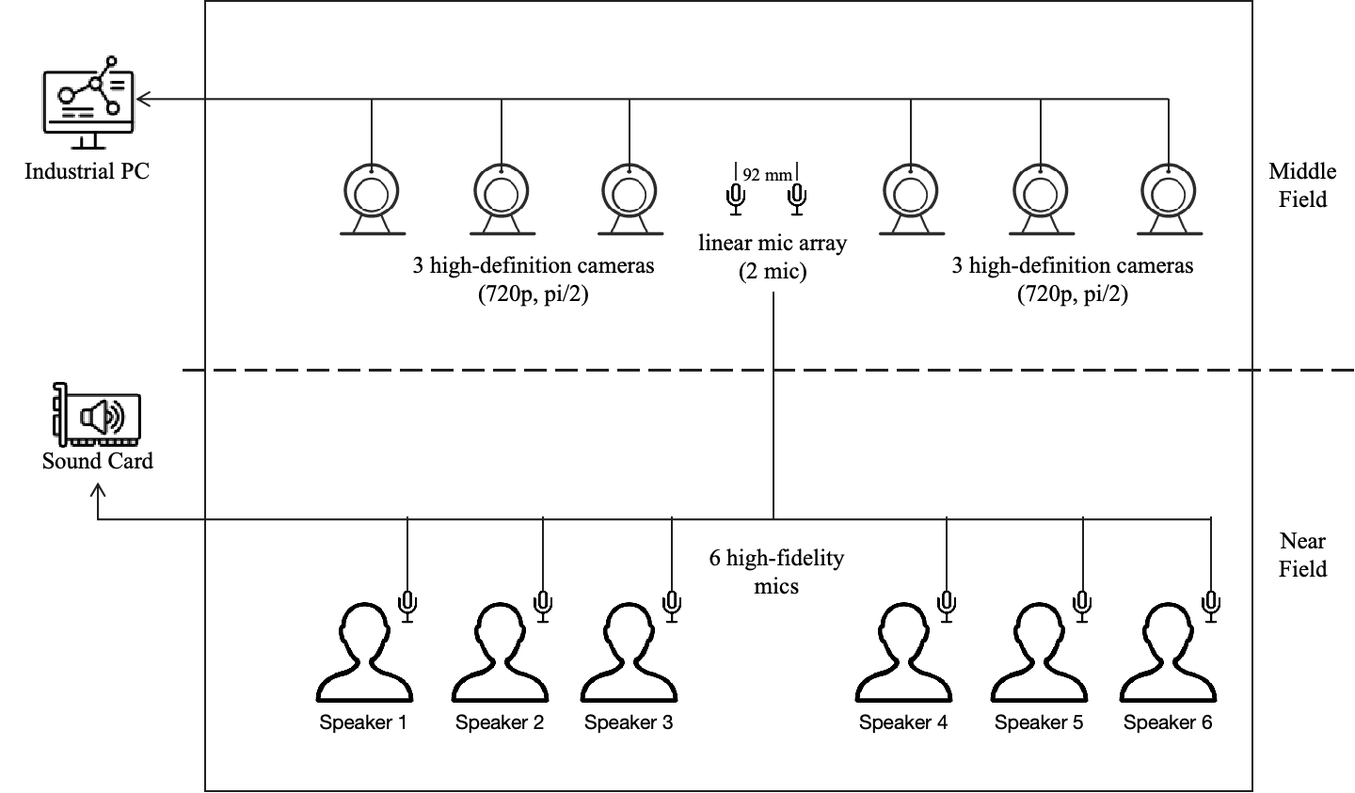
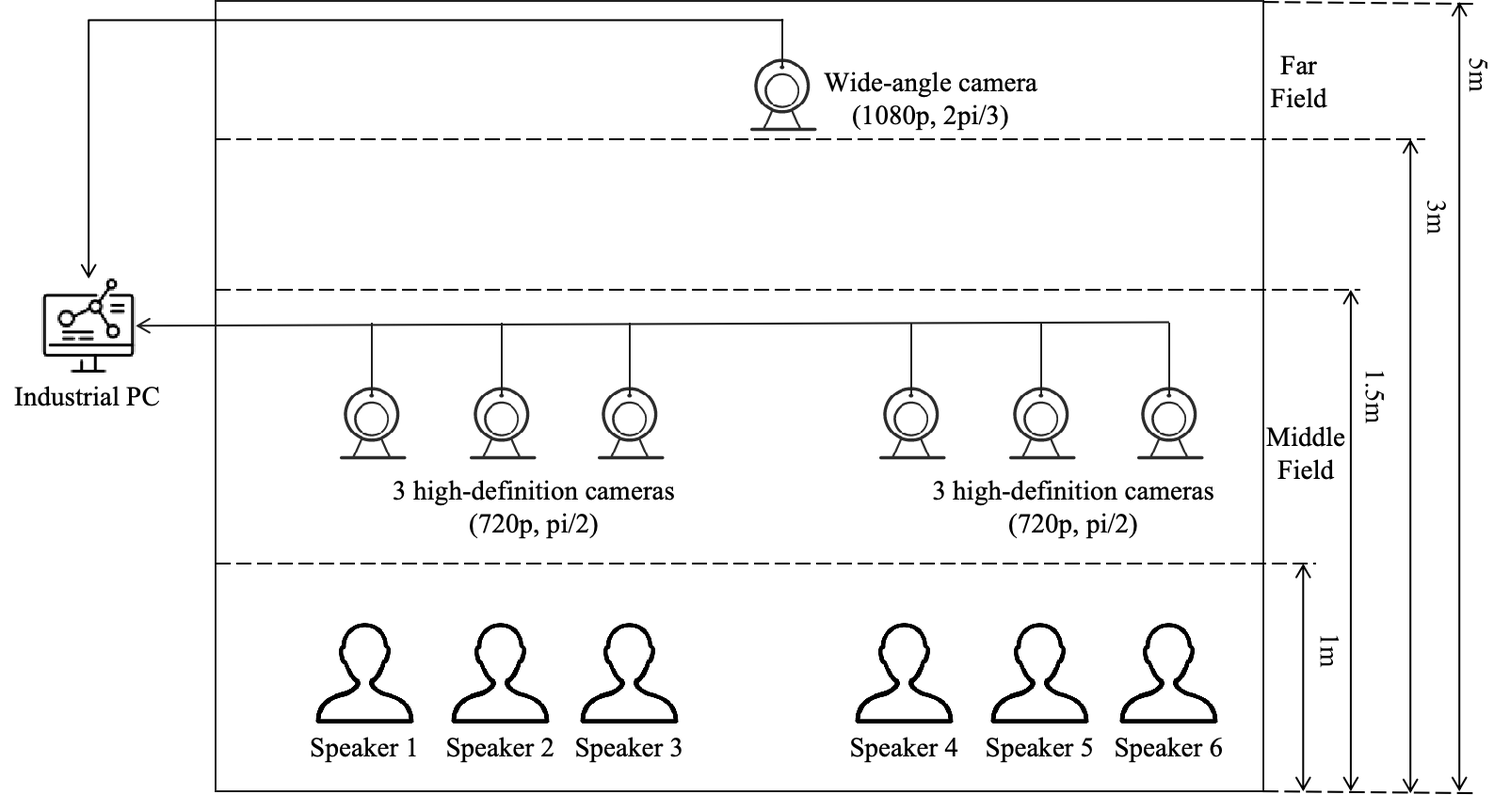
u

diff --git a/data.html b/data.html
@@ -21,7 +21,7 @@
 					<!-- <img src="images/isca.png" width="6%" height="6%" style="margin:0 77% 0 0;"> -->
 					<!-- <h1 style="font-size: 120%;  margin: -4% 0 -2% 0"><a href="index.html" id="logo">Multimodal Information
 							Based Speech Processing (MISP) Challenge 2023</a></h1> -->
-					<h1 style="font-size: 120%;  margin: -1% 0% -1% 0%;"><a href="index.html" id="logo">Home Scenario Chinese Lipreading Challenge</a></h1> 	
+					<h1 style="font-size: 120%;  margin: -1% 0% -1% 0%;"><a href="index.html" id="logo">Chat-scenario Chinese Lipreading (ChatCLR) Challenge</a></h1> 	
 					<!-- <img src="images/ieee.svg" width="7%"height="7%" style="margin:-10% 0% 3% 79%;"> -->
 
 					<!-- Nav -->
@@ -52,9 +52,9 @@
 				<section class="wrapper style1">
 					<div class="container">
 								
-						<h1 style="font-size: 150%;">Task 1: Lipreading Based Wake Word Spotting</h1>
+						<h1 style="font-size: 150%;">Task 1: Wake Word Lipreading</h1>
 						
-						<p>We use the middle field audio-visual wake word spotting dataset released in MISP 2021 Task 1, which is collected in home TV scenarios. The wake-up word is “Xiao T Xiao T”. There are 338 speakers. The dataset’s accent is Mandarin and all data were collected in 33 real rooms. A sample will be taken as a positive sample if the wake-up word is included, otherwise it will be regarded as a negative sample. For each sample, at most one wake-up word is included. The statistics of the dataset are shown in Table 1.</p>
+						<p>We use the far-field videos released in the MISP 2021 Task 1, collected in home TV scenarios. The wake-up word is “Xiao T Xiao T”. There are 338 speakers. The dataset’s accent is Mandarin; all data were collected in 33 real rooms. A sample will be taken as a positive sample if the wake-up word is included, otherwise, it will be regarded as a negative sample. For each sample, at most one wake-up word is included. The statistics of the dataset are shown in Table 1.</p>
 		
 						<style>
 							table {
@@ -69,7 +69,7 @@
 						  </style>
 						  
 						  <table>
-							<caption>Tabel 1: Task 1 Dataset</caption>
+							<caption>Table 1: Task 1 Dataset</caption>
 							<tr>
 							  <th rowspan="2">Dataset</th>
 							  <th colspan="2">Train</th>
@@ -89,52 +89,53 @@
 							</tr>
 							<tr>
 							  <td>Duration (h)</td>
-							  <td>6.21</td>
-							  <td>93.79</td>
-							  <td>0.78</td>
-							  <td>1.11</td>
-							  <td>0.81</td>
-							  <td>1.80</td>
-							  <td>7.80</td>
-							  <td>96.70</td>
+							  <td>3.87</td>
+							  <td>75.24</td>
+							  <td>0.69</td>
+							  <td>3.3</td>
+							  <td>2.43</td>
+							  <td>11.37</td>
+							  <td>6.9</td>
+							  <td>89.91</td>
 							</tr>
 							<tr>
 							  <td>Session</td>
-							  <td colspan="2">88</td>
-							  <td colspan="2">10</td>
-							  <td colspan="2">13</td>
-							  <td colspan="2">111</td>
+							  <td colspan="2">107</td>
+							  <td colspan="2">8</td>
+							  <td colspan="2">33</td>
+							  <td colspan="2">148</td>
 							</tr>
 							<tr>
 							  <td>Room</td>
-							  <td colspan="2">22</td>
+							  <td colspan="2">25</td>
 							  <td colspan="2">5</td>
-							  <td colspan="2">6</td>
-							  <td colspan="2">33</td>
+							  <td colspan="2">8</td>
+							  <td colspan="2">38</td>
 							</tr>
 							<tr>
 							  <td>Participant</td>
-							  <td colspan="2">257</td>
-							  <td colspan="2">35</td>
-							  <td colspan="2">46</td>
-							  <td colspan="2">338</td>
+							  <td colspan="2">253</td>
+							  <td colspan="2">28</td>
+							  <td colspan="2">47</td>
+							  <td colspan="2">328</td>
 							</tr>
 							<tr>
 							  <td>Male</td>
 							  <td colspan="2">79</td>
-							  <td colspan="2">11</td>
+							  <td colspan="2">9</td>
 							  <td colspan="2">27</td>
-							  <td colspan="2">117</td>
+							  <td colspan="2">115</td>
 							</tr>
 							<tr>
 							  <td>Female</td>
-							  <td colspan="2">178</td>
-							  <td colspan="2">24</td>
+							  <td colspan="2">174</td>
 							  <td colspan="2">19</td>
-							  <td colspan="2">221</td>
+							  <td colspan="2">20</td>
+							  <td colspan="2">213</td>
 							</tr>
 						  </table>
-					<p>On one side, our wake word spotting dataset encompasses over 30 rooms and 300 speakers, showcasing diverse rooms and different speakers, thus enhancing the complexity and diversity of our dataset. On the other side, this dataset includes words that share similar lip shapes with the wake-up words, amplifying the difficulty.</p>
+						  
+					<p>On one side, our wake word spotting dataset encompasses over 30 rooms and 300 speakers, showcasing diverse rooms and different speakers, thus enhancing the complexity and diversity of our dataset. Conversely, this dataset includes words that share similar lip shapes with the wake-up words, amplifying the difficulty.</p>
 
 					</div>
 				</section> 
@@ -142,9 +143,9 @@
 			<section class="wrapper style2">
 					<div class="container">
 								
-						<h1 style="font-size: 150%;">Task 2: Continuous Target Speaker Lipreading</h1>
+						<h1 style="font-size: 150%;">Task 2: Target Speaker Lipreading</h1>
 						
-						<p>The challenge uses the train and development set of MISP2021 AVSR dataset which contains 101.12 hours of audio-visual data. The development and evaluation sets originate from remaing data of MISP challenge, contaning 6 males and 6 females, whose videos are also included in the training set. Each speaker possesses approximately 30 minutes of data. Two-thirds of each person's data make up the devlopment set, while the remaining data make up the evaluation set. The statistics of the dataset are shown in Table 2.</p>			
+						<p>We utilize the far-field videos from the training and development sets of MISP2021 AVSR dataset to construct the training set for Task 2. The development and evaluation sets contain 6 males and 6 females, whose videos are also included in the training set. Each speaker possesses approximately 30 minutes of data. Two-thirds of each person's data make up the development set, while the remaining data make up the evaluation set. The statistics of the dataset are shown in Table 2.</p>			
 
 						<style>
 							table {
@@ -159,7 +160,7 @@
 						  </style>
 						  
 						  <table>
-							<caption>Tabel 2: Task 2 Dataset</caption>
+							<caption>Table 2: Task 2 Dataset</caption>
 							<tr>
 							  <th>Dataset</th>
 							  <th>Train</th>
@@ -171,15 +172,15 @@
 							  <td>Duration (h)</td>
 							  <td>110.95</td>
 							  <td>4.16</td>
-							  <td>2.27</td>
-							  <td>107.55</td>
+							  <td>2.48</td>
+							  <td>117.59</td>
 							</tr>
 							<tr>
 							  <td>Session</td>
 							  <td>339</td>
-							  <td>26</td>
-							  <td>16</td>
-							  <td>346</td>
+							  <td>12</td>
+							  <td>6</td>
+							  <td>357</td>
 							</tr>
 							<tr>
 							  <td>Participant</td>
@@ -203,7 +204,8 @@
 							  <td>133</td>
 							</tr>
 						  </table>
-				<p>To cover the real scene comprehensively and evenly, we designed the following recording configuration by controlling variables as in Table 3. "Time" refers to the recording time, the value is day or night. "Content" refers to the speaking content. We also recorded some data only containing wake-up/similar words to support audio-visual wake word spotting task. "Light" refers to turning on/off the light. "TV" refers to turning on/off the TV. "Group" refers to how many groups of participants are in a conversation. </p>
+						  
+				<p>To cover the real scene comprehensively and evenly, we designed the following recording configuration by controlling variables as in Table 3. ‘Time’ refers to the recording time, the value is day or night. ‘Content’ refers to the speaking content. We also recorded some data only containing wake-up/similar words to support the audio-visual wake-word spotting task. ‘Light’ refers to turning on/off the light. ‘TV’ refers to turning on/off the TV. ‘Group’ refers to how many groups of participants are in a conversation. </p>
 				
 				<style>
 					table {
@@ -305,7 +307,7 @@
 				  </table>
 				
 				  <p>
-					By observing the real conversations that were taking place in the real living room, we found that the participants would be divided into several groups to discuss different topics. Compared with all participants discussing the same topic, grouping would result in higher overlap ratios. We found that the average speech overlap ratios of Group = 1 and Group = 2 are 10%~20% and 50%~70%, respectively. The number of groups greater than 3 is very rare when the number of participants is no more than 6. 
+					By observing the real conversations that were taking place in the real living room, we found that the participants would be divided into several groups to discuss different topics. Compared with all participants discussing the same topic, grouping would result in higher overlap ratios. We found that the average speech overlap ratios of Group = 1 and Group = 2 are 10% ~ 20% and 50% ~ 70%, respectively. The number of groups greater than 3 is very rare when the number of participants is no more than 6. 
 				  </p>
 
 				  
@@ -316,9 +318,22 @@
 			<section class="wrapper style1">
 				<div class="container">
 					<h1 style="font-size: 150%;">Scenario and Recording Setup</h1>
-					<p>Figure 2 is a schematic diagram, showing the recording scene with six participants. In the near field, Each person has a personal microphone for high-fidelity audio recording. In the mid-field, a matching number of high-fidelity cameras capture individual videos of speakers, and two microphones are used to collect all speakers’ audio with background noise and overlap speech. </p>
-
+					<p>Figure 2 is a schematic diagram, showing the recording scene with six participants. According to the distance between the device and the speaker, multiple recording devices were divided into 2 categories:</p>
+					<ul>
+						<li>Far devices: A wide-angle camera (1080p, 25 fps, 2pi/3), which is placed 3-5m away from the speaker. All participants appear in the camera, which brings speakers position information while reducing the resolution of the lip region of interest (ROI);</li>
+						<li>
+							Middle devices: $n$ high-definition cameras (720p, 25fps, pi/2), placed 0.8-1.5m away from the speaker, where n is the number of participants within this conversation. There is only the corresponding speaker in each camera, and the lip ROI is recorded clearly;
+						</li>
+					</ul>
 					
+					<p>
+						Various devices have resulted in inconsistent clocks. We address that from two aspects: synchronization devices, and manual post-processing.
+					</p>
+					<ul>
+						<li>
+							Synchronization devices: The clocks of near high-fidelity microphones while Vicando software, running on the industrial PC (MIC-770), is used to synchronize the clocks of all cameras.
+						</li>
+					</ul>
 					<center>
 						<figure style="padding:0px;border:0px; margin:0px">
 						<img src="images/schematic diagram.png" alt="Schematic Diagram" style="width:80%;padding:0px;border:0"/>
@@ -326,18 +341,18 @@
 						</figure>
 					 </center>
 
-					<p>Figure 3 is a real shot of the recording scene. All participants freely select topics and engage in unrestrained discourse in real home settings, resembling the most prevalent multi-speaker conversational scenarios in daily life.</p>
+					<p>In the far field, a wide-angle camera will capture all speakers simultaneously, mirroring the most common scenario in real-life situations. All participants freely select topics and engage in unrestrained discourse in real home settings, resembling the most prevalent multi-speaker conversational scenarios in daily life. There still are some variables in the conversation that are taking place in the real living room, for example, the conversation is happening during the day or night. Specifically, by observing the real conversations in the real living room, we found that participants would be divided into several groups to discuss different topics. Compared with all participants discussing the same topic, grouping would result in higher overlap ratios. We control the above variables to cover the real scene comprehensively and evenly during the recording.</p>
 					
-					<center>
+					<!-- <center>
 						<figure style="padding:0px;border:0px; margin:0px">
 						<img src="images/real shot.png" alt="Schematic Diagram" style="width:80%;padding:0px;border:0"/>
 						<figcaption>Fig.3. A real shot of the recording scene</figcaption>
 						</figure>
-					 </center>
+					 </center> -->
 
-					<p>There still are some variables in the conversation that are taking place in the real living room, for example, the conversation is happening during the day or night. Specifically, by observing the real conversations taking place in the real living room, we found that participants would be divided into several groups to discuss different topics. Compared with all participants discussing the same topic, grouping would result in higher overlap ratios. We control the above variables to cover the real scene comprehensively and evenly during the recording.</p>
+					<!-- <p>There still are some variables in the conversation that are taking place in the real living room, for example, the conversation is happening during the day or night. Specifically, by observing the real conversations taking place in the real living room, we found that participants would be divided into several groups to discuss different topics. Compared with all participants discussing the same topic, grouping would result in higher overlap ratios. We control the above variables to cover the real scene comprehensively and evenly during the recording.</p> -->
 					
-					<center>
+					<!-- <center>
 						<figure style="padding:0px;border:0px; margin:0px">
 						<img src="images/Recording Devices.png" alt="Schematic Diagram" style="width:60%;padding:0px;border:0"/>
 						<figcaption>Fig.4. Recording devices</figcaption>
@@ -361,7 +376,7 @@
 						<li>
 							Synchronization devices: the sound card (ZOOM F8n) is used to synchronize the clock of the middle linear microphone array and the clocks of near high-fidelity microphones while Vicando software, running on the industrial PC (MIC-770), is used to synchronize the clocks of all cameras.
 						</li>
-					</ul>
+					</ul> -->
 
 				</div>
 			</section> 

diff --git a/overview.html b/overview.html
@@ -21,7 +21,7 @@
 					<!-- <img src="images/isca.png" width="6%" height="6%" style="margin:0 77% 0 0;"> -->
 					<!-- <h1 style="font-size: 120%;  margin: -4% 0 -2% 0"><a href="index.html" id="logo">Multimodal Information
 							Based Speech Processing (MISP) Challenge 2023</a></h1> -->
-					<h1 style="font-size: 120%;  margin: -1% 0% -1% 0%;"><a href="index.html" id="logo">Home Scenario Chinese Lipreading Challenge</a></h1> 	
+					<h1 style="font-size: 120%;  margin: -1% 0% -1% 0%;"><a href="index.html" id="logo">Chat-scenario Chinese Lipreading (ChatCLR) Challenge</a></h1> 	
 					<!-- <img src="images/ieee.svg" width="7%"height="7%" style="margin:-10% 0% 3% 79%;"> -->
 					<!-- Nav -->
 						<nav id="nav">
@@ -66,9 +66,9 @@
 									<header>
 										<h1 style="font-size: 150%;">Background</h1>
                   					</header>
-									  <p>In daily conversations, people acquire information through both auditory cues, such as the speaker's voice, and visual cues, like lip movements, to facilitate the comprehension of spoken content. Visual speech recognition, also known as lipreading, is a technology that infers pronunciation content through lip movements. This emerging and challenging field lies at the intersection of computer vision and natural language processing and plays a key role in various applications in different domains. For example, in public security, lip reading is crucial in detecting facial forgery and determining liveness. In human-computer interaction, lip reading lays a foundation for silent speech control systems, expanding the frontiers of interactive information. In medicine, lip reading significantly benefits people with hearing impairments and those with vocal cord injuries. Moreover, advances in lip reading also drive the development of audio-visual speech recognition and enhancement, providing an effective way to input video as a complement in challenging acoustic environments.</p>
+									  <p>In daily conversations, people acquire information through auditory cues, such as voice, and visual cues, like lip movements, to facilitate the comprehension of spoken content. The audio may be drowned in the noise encountered in poor acoustic scenarios, making the content difficult to acquire. Lipreading infers content through lip movements, lying at the intersection of computer vision and natural language processing. In public security, lipreading is crucial in detecting facial forgery and determining liveness. Moreover, advances in lip reading also drive the development of audio-visual speech recognition and enhancement, providing an effective way to input video as a complement in challenging acoustic environments.</p>
 
-									  <p>Currently, lipreading tasks primarily concentrate on English, emphasizing the crucial need for increased attention in Chinese research. The heightened complexity of Chinese lipreading tasks stems from the extensive number of Chinese characters and the complex mapping between these characters and corresponding lip movements. Additionally, the scarcity of lipreading challenges and the lack of large-scale Chinese lipreading datasets further constrain research efforts in this field. The existing open-source Chinese lipreading datasets are mostly derived from controlled settings like laboratory recordings or online speech programs, such as the Chinese Mandarin Lip Reading (CMLR) dataset consisting of 11 speakers sourced from Chinese News Broadcasts. The Mandarin Audio-Visual dataset with Depth information (MVAD) dataset was recorded in a studio environment, with text derived from social media, news, novels, and poetry. A recent addition is released by the Chinese Continuous Visual Speech Recognition Challenge (CNVSRC), encompassing data from both these origins. Nevertheless, the contents in these videos are carefully prepared by the speakers, leading to a more polished, presentational style rather than everyday communication.</p>
+									  <p>Currently, lipreading tasks primarily concentrate on English, emphasizing the crucial need for increased attention in Chinese. The heightened complexity of Chinese lipreading stems from the extensive number of Chinese characters and their complex relationship with lip movements. Additionally, the lack of large-scale Chinese datasets constrains research efforts. The existing open-source Chinese lipreading datasets are mostly from controlled settings like laboratory recordings. The contents of these videos are carefully prepared, leading to a more presentational style rather than colloquial chatting. Figure 1 illustrates examples of current open-source lipreading datasets and ours (MISP).</p>
 									  
 									  <center>
 										<figure style="padding:0px;border:0px; margin:0px">
@@ -77,11 +77,11 @@
 										</figure>
 									 </center>
 
-									  <p>Different from the existing datasets, our competition utilizes the video portion of the dataset released by the Multimodal Information Based Speech Processing (MISP) Challenge, which was recorded in real home conversational scenarios. The examples of the MISP dataset alongside several other datasets are shown in Fig.1.  The MISP dataset has been validated and employed in numerous multimodal tasks. It features videos recorded in real home settings, with 2-6 speakers engaging in conversations without any predetermined topics. The dataset incorporates various elements like differing lighting conditions. Moreover, to minimize errors due to camera variability, we have meticulously selected recording equipment that maintains consistent parameters and recording distances.</p>
+									  <p>Lipreading can be categorized into two subtypes: word-level and sentence-level. The research on word-level lipreading has been extensively conducted. Sentence-level Chinese lipreading is even more challenging. Due to the inherent ambiguity in lip shapes, different words may exhibit similar lip movements. Variations in articulation habits might lead to different lip movements for the same word. The accuracy of sentence-level recognition is too low
+										for practical use. Therefore, we narrow the focus of general sentence-level lipreading system to speaker-specific taks.</p>
 									
-									  <p>Based on the recognition target, lipreading can be categorized into two subtypes: word-level and sentence-level. The research on word-level lipreading has been extensively conducted. The existing Chinese lipreading challenges, such as Task 1 in The 1st Mandarin Audio-Visual Speech Recognition Challenge, utilize the LRW-1000 dataset that only focuses on the lipreading of isolated words. Sentence-level Chinese lipreading tasks are even more challenging. On one hand, due to the inherent ambiguity in lip shapes, different words may exhibit similar lip movements. On the other hand, variations in speakers' articulation habits might lead to different lip movements for the same word. At present, the accuracy of sentence-level recognition is extremely low, making it impractical for real-world applications. Therefore, we are narrowing the focus of the general sentence-level lipreading system to speaker-specific sentence-level lipreading.</p>
+									  <p>Considering the above perspectives, we organize the ChatCLP challenge in real home chatting environments to address wake word and target speaker lipreading. We are dedicated to fulfilling the requirements of waking up smart home devices within household settings and utilizing video for speech recognition with these smart home devices.</p>
 									  
-									  <p>Considering the above perspectives, we have decided to organize a Chinese lipreading challenge set in real home environments to better reflect real-world scenarios and complexities. Our competition addresses both word-level and sentence-level lipreading. We incorporate the wake word spotting (WWS) task to reflect word-level lipreading. For sentence-level lipreading, we allow participants to fine-tune their models specifically for a few selected speakers. Researchers from both academia and industry are warmly welcome to work on our two tasks (with details as below) for promoting research of speech processing using video information to cross the practical threshold of realistic applications in challenging scenarios. All approaches are encouraged, whether they are emerging or established, and whether they rely on signal processing or machine learning.</p>
 
 
 						</div>
@@ -92,9 +92,10 @@
 					<div class="container">
 						<h1 style="font-size: 150%;">Challenge Features</h1>
 						<ul>
-							<li>Real conversation: talkers speaking in a relaxed and unscripted fashion. </li>
-							<li>Diverse speaking styles: 200 native Chinese participants involved in. </li>
-							<li>Complex backgrounds: 20+ real room backgrounds with various lighting conditions.</li>
+							<li>Real conversation: participants speaking in a relaxed and unscripted fashion. </li>
+							<li>Diverse speaking styles: 200+ native Chinese participants involved in. </li>
+							<li>Complex backgrounds: 20+ real room backgrounds with various lighting conditions. </li>
+							<li>Colloquial chat: Continuous informal sentences with interjections and emotions.</li>
 						</ul>
 					</div>
 				</section> 
@@ -102,12 +103,12 @@
 				<section class="wrapper style2">
 					<div class="container">
 						<h1 style="font-size: 150%;">Tasks</h1>
-						<p>we organize the Chinese lipreading challenge in real home environments to better reflect real-world scenarios and complexities. Our competition concentrates on exploring word-level and sentence-level lipreading, consisting of the following two tasks:</p>
+						<p>We organize the ChatCLR competition to better reflect real-world scenarios and complexities, consisting of the following two tasks:</p>
 						<ul>
-							<li>Task 1: Lipreading Based Wake Word Spotting</li>
-							<li>Task 2: Continuous Target Speaker Lipreading</li>
+							<li>Task 1: Wake Word Lipreading</li>
+							<li>Task 2: Target Speaker Lipreading</li>
 						</ul>
-			            <p>We aim to integrate word-level and sentence-level lip-reading, guiding participants to compare and contrast the differences and connections between the two tasks. Task 1 focuses on word-level lipreading, inspired by the practical application of lipreading technology in recognizing wake-up words. The data for this task is derived from the meticulously recorded Chinese smart home wake-up phrases in the MISP dataset. Task 2, on the other hand, concentrates on continuous lipreading of specific speakers, to recognize the complete conversations of these individuals. We have selected unpublished data from the MISP dataset for this task, including conversations with 6 male and 6 female speakers. A portion of this data will be used as the development set, and another portion as the evaluation set. By comparing the outcomes of these two tasks, we aim to delve deeper into the different challenges faced by word-level and sentence-level lipreading.</p>
+			            <p>The wake word lipreading task focuses on activating smart home devices during conversational interactions. Target speaker lipreading requires participants to fine-tune their networks to recognize the continuous and colloquial spoken conversation. </p>
 					</div>
 				</section> 
 

diff --git a/index.html b/index.html
@@ -27,7 +27,7 @@
 			<!-- <img src="images/isca.png" width="6%" height="6%" style="margin:0 77% 0 0;"> -->
 			<!-- <h1 style="font-size: 120%;  margin: -4% 0 -2% 0"><a href="index.html" id="logo">Multimodal Information
 					Based Speech Processing (MISP) Challenge 2022</a></h1> -->
-			<h1 style="font-size: 120%;  margin: -1% 0% -1% 0%;"><a href="index.html" id="logo">Home Scenario Chinese Lipreading Challenge</a></h1> 	
+			<h1 style="font-size: 120%;  margin: -1% 0% -1% 0%;"><a href="index.html" id="logo">Chat-scenario Chinese Lipreading (ChatCLR) Challenge</a></h1> 	
 			<!-- <img src="images/ieee.svg" width="7%"height="7%" style="margin:-10% 0% 3% 79%;"> -->
 			<!-- Nav -->
 			<!-- Nav -->
@@ -66,8 +66,10 @@
 		<section class="wrapper style1">
 			<div class="container">
 				<!-- <h1 style="font-size: 150%;">Call for Participation: <span style="font-weight: normal;">Home Scenario Chinese Lipreading Challenge</span></h1> -->
-				<p>In daily conversations, people acquire information through both auditory cues, such as the speaker's voice, and visual cues, like lip movements, to facilitate the comprehension of spoken content. Lipreading infers pronunciation content through lip movements. This emerging and challenging field lies at the intersection of computer vision and natural language processing and plays a key role in various applications in different domains. However, lipreading tasks primarily concentrate on English, emphasizing the crucial need for increased attention in Chinese research. The heightened complexity of Chinese lipreading tasks stems from the extensive number of Chinese characters and the complex mapping between these characters and corresponding lip movements. Additionally, the scarcity of lipreading challenges and the lack of large-scale Chinese lipreading datasets further constrain research efforts in this field. Existing Chinese lipreading datasets mainly focus on professional announcers or carefully prepared topics, which is not applicable in practical applications. Our competition utilizes the video portion of the dataset released by the Multimodal Information Based Speech Processing (MISP) Challenge, which was recorded in real-home conversational scenarios. It features videos recorded in real home settings, with 2-6 speakers engaging in conversations without any predetermined topics.</p>
-				<p>Our challenge addresses both word-level and sentence-level lipreading. We incorporate the wake word spotting task to reflect word-level lipreading. For sentence-level lipreading, we allow participants to fine-tune their models specifically for a few selected speakers. Researchers from both academia and industry are warmly welcome to work on our two tasks for promoting research of speech processing using video information to cross the practical threshold of realistic applications in challenging scenarios. For full details of the challenge, please refer to the website. Don't hesitate to contact us at <strong>mispchallenge@gmail.com</strong>.</p>
+				<p>In daily conversations, people acquire information through auditory cues, such as the speaker's voice, and visual cues, like lip movements, to facilitate the comprehension of spoken content. The audio may be drowned in the noise encountered in poor acoustic scenarios, making the content difficult to acquire. Lipreading can infer pronunciation content through lip movements. This emerging and challenging field lies at the intersection of computer vision and natural language processing and plays a key role in various applications in different domains. However, lipreading tasks primarily concentrate on English, emphasizing the need for increased attention in Chinese research. The heightened complexity of Chinese lipreading tasks stems from the extensive number of Chinese characters and the complex mapping between these characters and corresponding lip movements. Additionally, the scarcity of lipreading challenges and the lack of large-scale Chinese lipreading datasets further constrain research efforts in this field. Existing Chinese lipreading datasets mainly focus on professional announcers or carefully prepared topics, which is not applicable in practical applications. 
+					Our competition will release the videos recorded in a real-home chat scenario with 2-6 speakers talking in a relaxed and unscripted fashion.</p>
+				<p>Our challenge addresses wake word and target speaker lipreading.
+					The wake word lipreading task focuses on activating smart home devices during conversational interactions. Target speaker lipreading requires participants to fine-tune their networks to recognize the continuous and colloquial spoken conversation.Researchers from both academia and industry are warmly welcome to work on our two tasks for promoting research of speech processing using video information to cross the practical threshold of realistic applications in challenging scenarios. For full details of the challenge, please refer to the website. Don't hesitate to contact us at <strong>mispchallenge@gmail.com</strong> for queries concerning the challenge.</p>
 			</div>
 		</section>
 
@@ -88,8 +90,8 @@
 
 				<h1 style="font-size: 150%;">Tasks:</h1>
 					<ul>
-						<li>Task 1: Lipreading Based Wake Word Spotting</li>
-						<li>Task 2: Continuous Target Speaker Lipreading</li>
+						<li>Task 1:  Wake Word Lipreading</li>
+						<li>Task 2:  Target Speaker Lipreading</li>
 					</ul>		
 
 			</div>

diff --git a/evaluation.html b/evaluation.html
@@ -21,7 +21,7 @@
 					<!-- <img src="images/isca.png" width="6%" height="6%" style="margin:0 77% 0 0;"> -->
 			<!-- <h1 style="font-size: 120%;  margin: -4% 0 -2% 0"><a href="index.html" id="logo">Multimodal Information
 					Based Speech Processing (MISP) Challenge 2022</a></h1> -->
-					<h1 style="font-size: 120%;  margin: -1% 0% -1% 0%;"><a href="index.html" id="logo">Home Scenario Chinese Lipreading Challenge</a></h1> 	
+					<h1 style="font-size: 120%;  margin: -1% 0% -1% 0%;"><a href="index.html" id="logo">Chat-scenario Chinese Lipreading (ChatCLR) Challenge</a></h1> 	
 			<!-- <h1 style="font-size: 120%;  margin: -1% 0% -1% 0%;"><a href="index.html" id="logo">Multimodal Information
 						Based Speech Processing (MISP) Challenge 2022</a></h1> 	 -->
 			<!-- <img src="images/ieee.svg" width="7%"height="7%" style="margin:-10% 0% 3% 79%;"> -->
@@ -73,15 +73,17 @@
 			<!-- <h1 style="font-size: 150%;">Coming Soon...</h1> -->
 				<section class="wrapper style1">
 					<div class="container">
-						<h1 style="font-size: 150%;">Task 1: Lipreading Based Wake Word Spotting</h1>
-						<p>This is a classification problem. ‘1’ indicates that the current sample contains the wake-up word, and ‘0’ indicates the opposite. We use false reject rate (FRR) and false alarm rate (FAR) on the evaluation set as the criterion of the WWS performance. Suppose the test set consists of N<sub>wake</sub> examples with wake-up word and N<sub>non-wake</sub> examples without wake-up word, FRR and FAR are defined as follows:</p>
+						<h1 style="font-size: 150%;">Task 1: Wake Word Lipreading</h1>
+						<p>This is a classification problem, while '1' indicates that the current sample contains the wake-up word, and '0' indicates the opposite. We use false reject rate (FRR) and false alarm rate (FAR) on the evaluation set as the criterion of the WWS performance. Suppose the test set consists of <em>N<sub>wake</sub></em> examples with wake-up word and <em>N<sub>non-wake</sub></em> examples without wake-up word, <em>FRR</em> and <em>FAR</em> are defined as follows:</p>
+
 						
 						<center>
 							<figure style="padding:0px;border:0px; margin:0px">
 							<img src="images/FRR_FAR.png" alt="Schematic Diagram" style="width:30%;padding:0px;border:0"/>
 							</figure>
 						 </center>
-						 <p>where <span>N<sub>FR</sub></span> denotes the number of examples including wake-up word but the WWS system gives a negative decision. <span>N<sub>FA</sub></span> is the number of examples without wake-up word but the WWS system gives a positive decision. The final score of WWS is defined as:</p>
+						 <p>where <em>N<sub>FR</sub></em> denotes the number of examples including the wake-up word but the WWS system gives a negative decision. <em>N<sub>FA</sub></em> is the number of examples without the wake-up word but the WWS system gives a positive decision. The final score of WWS is defined as:</p>
+
 						
 						 <center>
 							<figure style="padding:0px;border:0px; margin:0px">
@@ -98,7 +100,7 @@
 
  				<section class="wrapper style2">
 					<div class="container">
-						<h1 style="font-size: 150%;">Task 2: Continuous Target Speaker Lipreading</h1>
+						<h1 style="font-size: 150%;">Task 2:  Target Speaker Lipreading</h1>
 						<p>In this Challenge, we adopt the Chinese Character Error Rate (CER) as an official metric for our ranking. CER calculation is based on the concept of Levenshtein distance, where we count the minimum number of character-level operations required to transform the recognition output into the ground truth text. It is represented with this formula:</p>
 
 						<center>

diff --git a/submission.html b/submission.html
@@ -21,7 +21,7 @@
 					<!-- <img src="images/isca.png" width="6%" height="6%" style="margin:0 77% 0 0;"> -->
 			<!-- <h1 style="font-size: 120%;  margin: -4% 0 -2% 0"><a href="index.html" id="logo">Multimodal Information
 					Based Speech Processing (MISP) Challenge 2022</a></h1> -->
-			<h1 style="font-size: 120%;  margin: -1% 0% -1% 0%;"><a href="index.html" id="logo">Home Scenario Chinese Lipreading Challenge</a></h1> 	
+			<h1 style="font-size: 120%;  margin: -1% 0% -1% 0%;"><a href="index.html" id="logo">Chat-scenario Chinese Lipreading (ChatCLR) Challenge</a></h1> 	
 			<!-- <img src="images/ieee.svg" width="7%"height="7%" style="margin:-10% 0% 3% 79%;"> -->
 					<!-- Nav -->
 						<nav id="nav">
@@ -72,7 +72,7 @@
 						</p>
 						
 						<p>
-							Utterance IDs will be provided by the official. ‘0’ and ‘1’ in Task 1 represent the prediction results of the current sample.
+							The official will provide utterance IDs. ‘0’ and ‘1’ in Task 1 represent the prediction results of the current sample.
 						</p>
 						</center>
 					</div>
